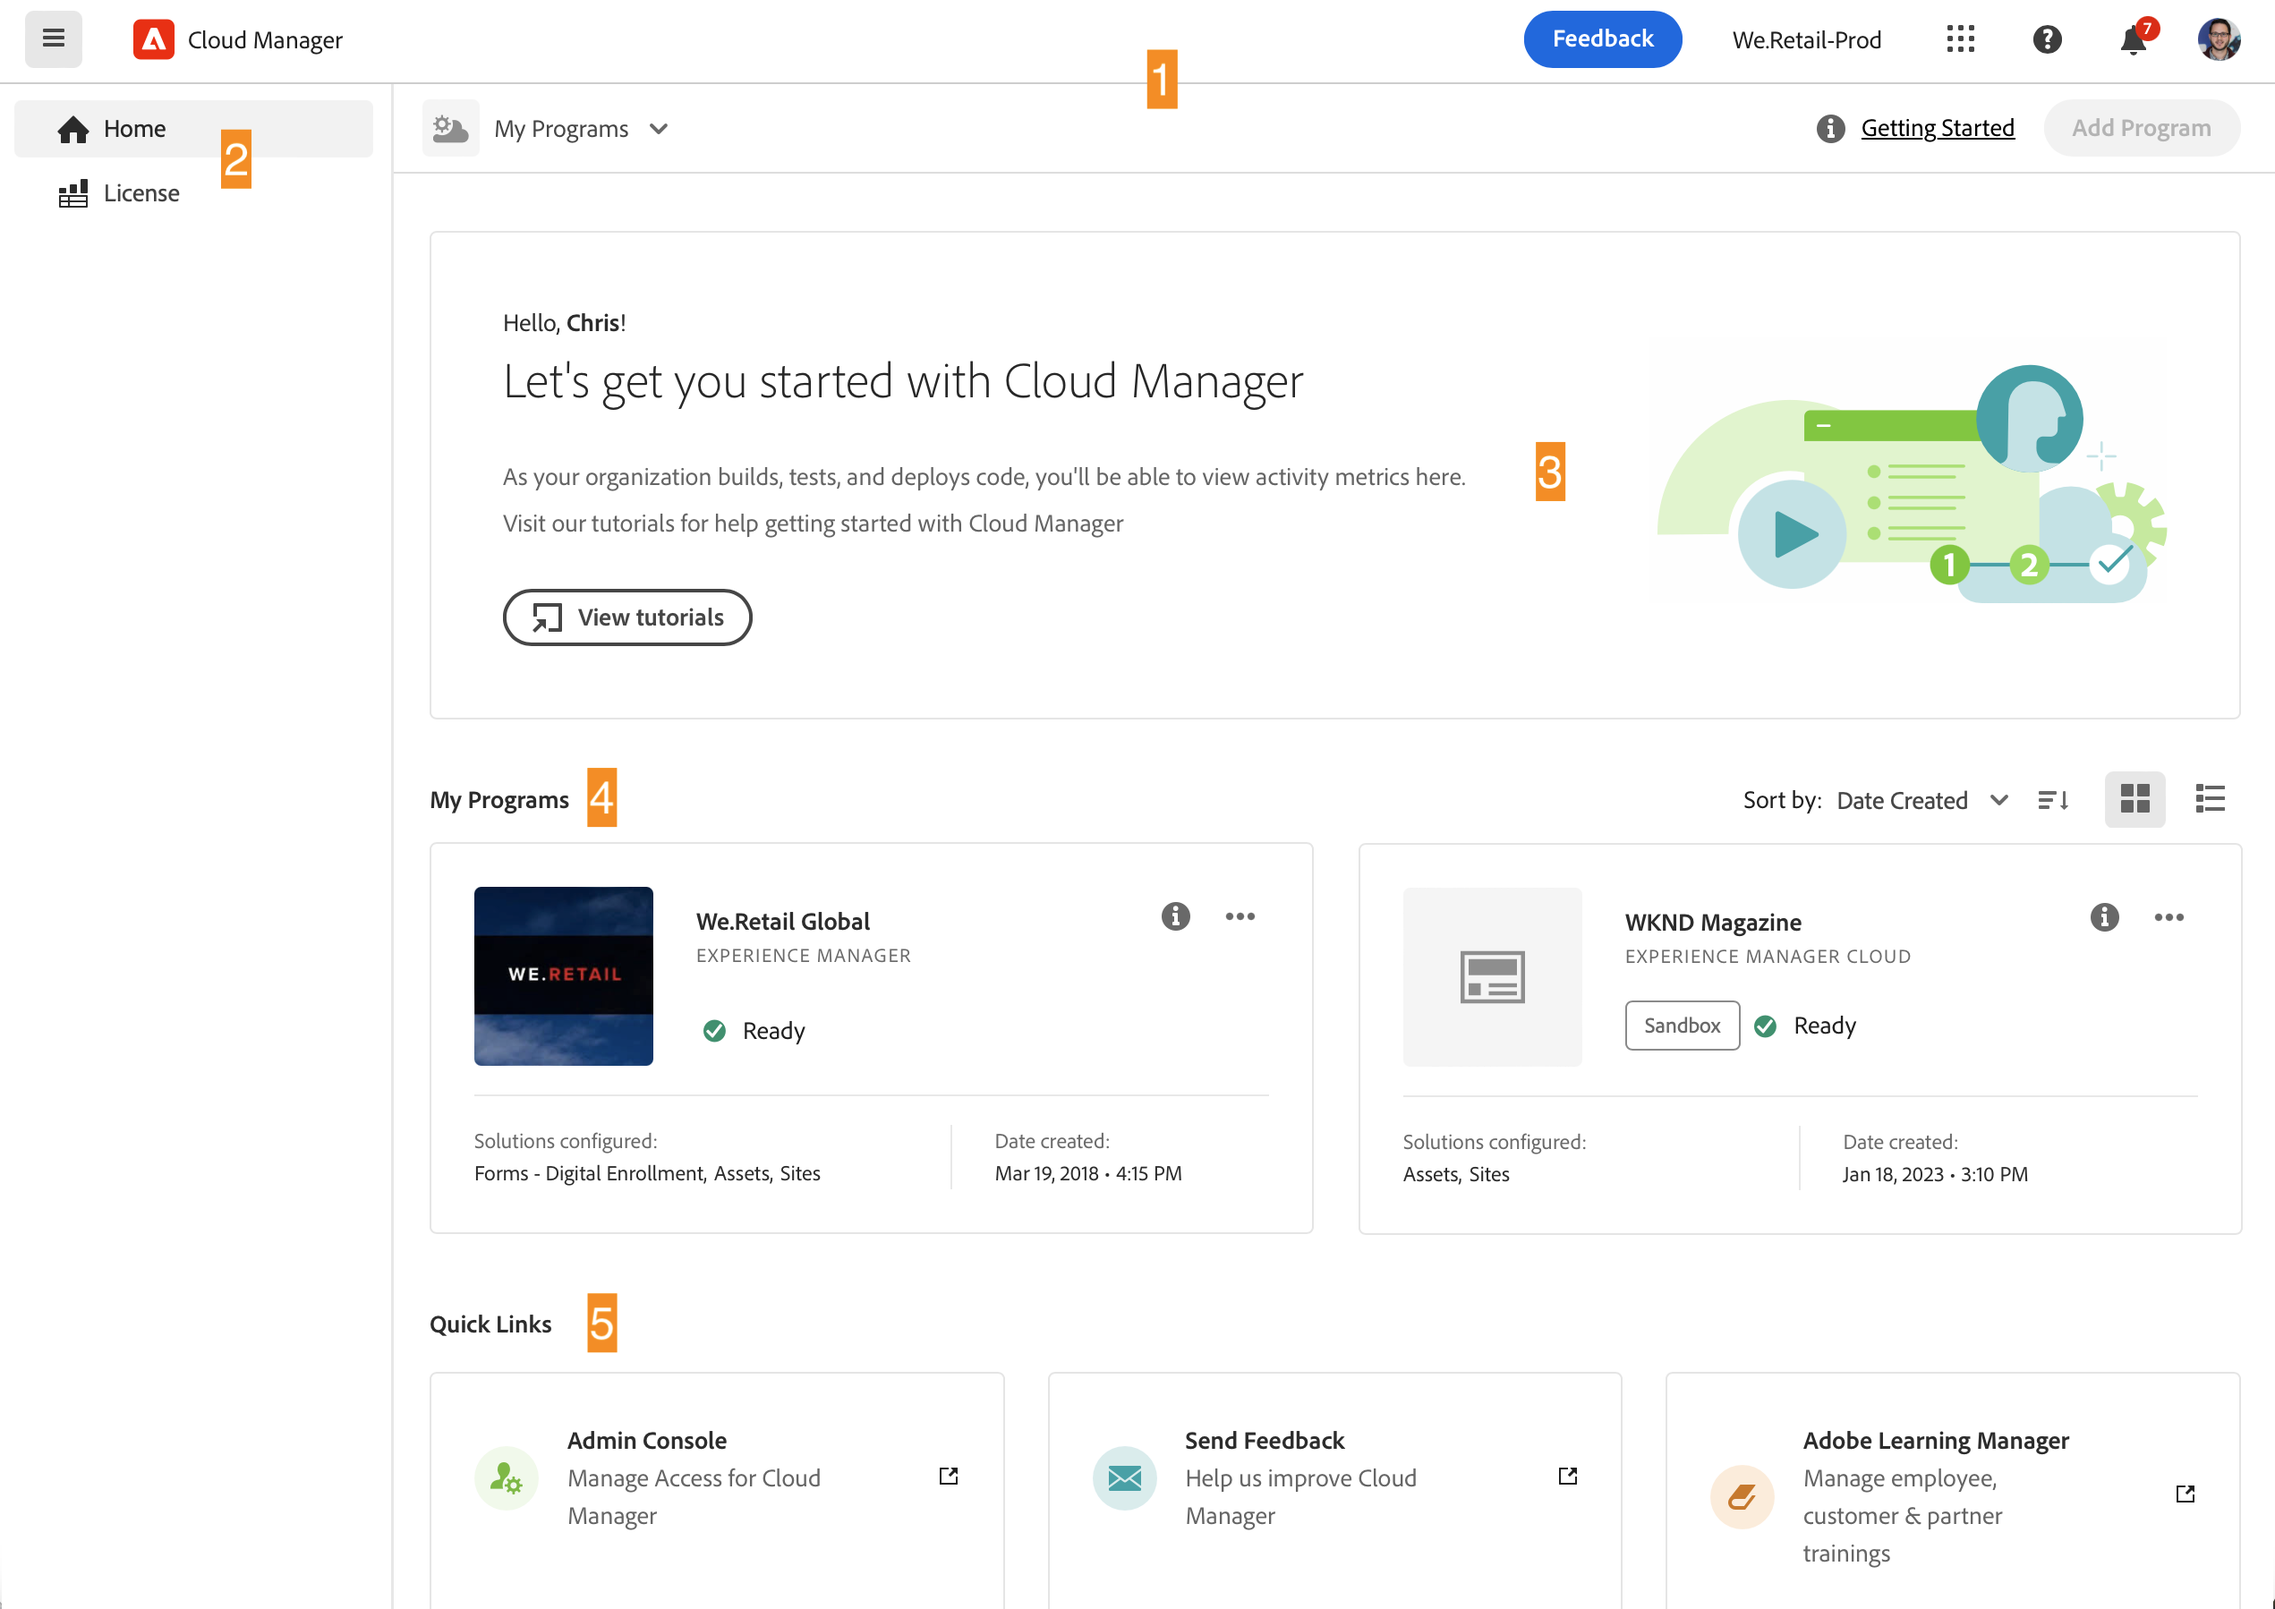
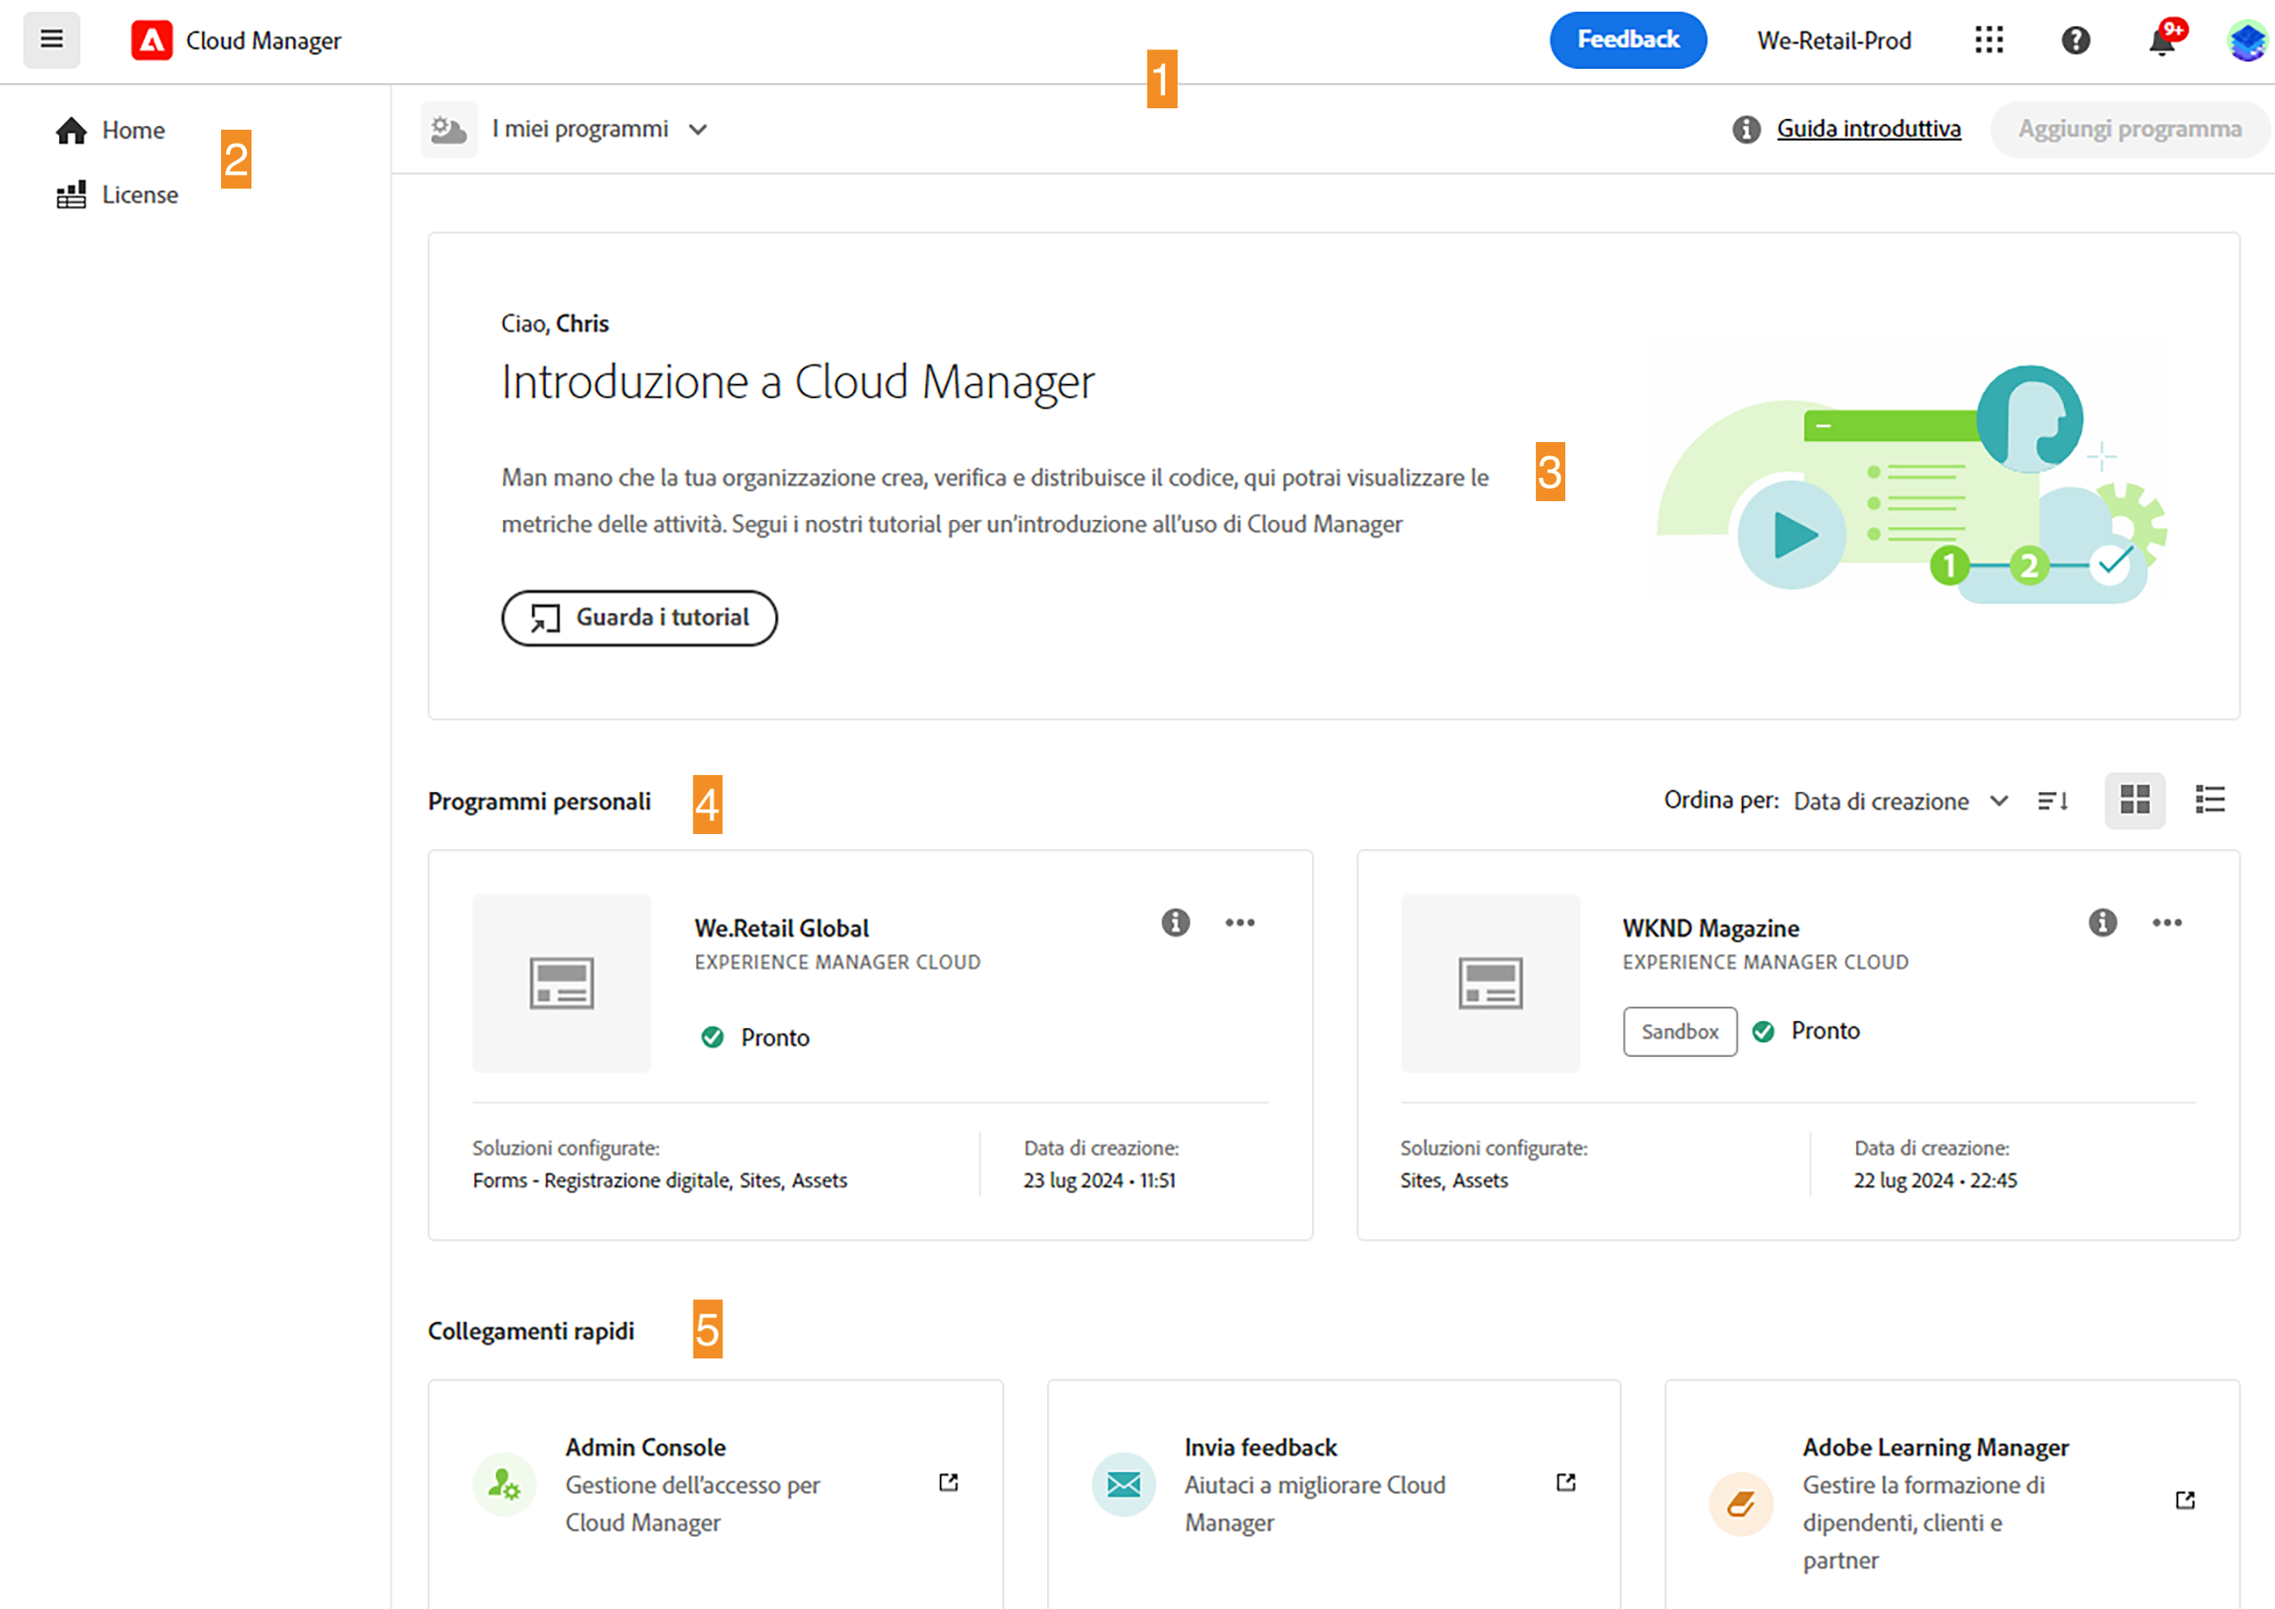
Updated by task 'AUTO_HANDOFF_1721897573765'  Changes for core/source commit https://git.corp.adobe.com/AdobeDocs/experience-manager-cloud-manager.en/commit/8f08c36aaedc05e1a9b75daf674b326cdaec6c25

diff --git a/help/getting-started/navigation.md b/help/getting-started/navigation.md
@@ -3,9 +3,9 @@ title: Navigazione nell’interfaccia utente di Cloud Manager
 description: Scopri come è organizzata l’interfaccia utente di Cloud Manager e come spostarsi per gestire i programmi e gli ambienti.
 exl-id: 9c1545ce-1c6d-417f-a6f4-fe53caef3433
 source-git-commit: d4d9a9f38c5a969f276140dca98731c670547a3d
-workflow-type: tm+mt
+workflow-type: ht
 source-wordcount: '1439'
-ht-degree: 80%
+ht-degree: 100%
 
 ---
 
@@ -29,12 +29,12 @@ La console Programmi personali fornisce una panoramica di tutti i programmi a cu
 
 1. [Barre degli strumenti](#toolbars-my-programs-toolbars) per la selezione di organizzazioni, avvisi e impostazioni account
 1. Schede che consentono di attivare/disattivare la visualizzazione corrente dei programmi.
-   * Visualizzazione **Home** (predefinita) che seleziona la visualizzazione **Programmi** con una panoramica di tutti i programmi
+   * Visualizzazione **Pagina principale** (predefinita) che seleziona la visualizzazione **Programmi personali** con una panoramica di tutti i programmi
    * **Licenza** che accede alla dashboard delle licenze. La dashboard delle licenze si applica solo ai programmi AEM as a Cloud Service, non ai programmi AMS.
       * Per determinare il tipo di servizio del programma (AMS o AEMaaCS), consulta la [sezione Schede del programma](#program-cards) di questo documento.
-   * Per impostazione predefinita, le schede sono chiuse e possono essere visualizzate utilizzando il menu hamburger nell&#39;intestazione [Cloud Manager.](#cloud-manager-header)
-1. [Inviti all&#39;azione e statistiche](#cta-statistics) per una panoramica dell&#39;attività recente
-1. [**Programmi** sezione](#my-programs-section) con una panoramica di tutti i programmi
+   * Per impostazione predefinita, le schede sono chiuse e possono essere visualizzate utilizzando il menu hamburger nell’[intestazione Cloud Manager.](#cloud-manager-header)
+1. [Statistiche e invito all’azione](#cta-statistics) per una panoramica dell’attività recente
+1. Sezione [**Programmi personali** ](#my-programs-section) con una panoramica di tutti i programmi
 1. [Collegamenti rapidi](#quick-links) per accedere facilmente alle risorse correlate
 
 >[!TIP]
@@ -51,7 +51,7 @@ La prima è l’intestazione di Cloud Manager, che è persistente quando ti spos
 
 ![Intestazione di Experience Cloud](assets/experience-cloud-header.png)
 
-1. Il menu hamburger che fornisce l&#39;accesso alle schede che possono portare a parti specifiche di un singolo programma o passare dalla dashboard delle licenze alla console **[Programmi personali](#my-programs-console)** a seconda del contesto.
+1. Menu hamburger che fornisce l’accesso alle schede che possono portare a parti specifiche di un singolo programma o passare dalla dashboard delle licenze alla console **[Programmi personali](#my-programs-console)** a seconda del contesto.
    * La dashboard delle licenze si applica solo ai programmi AEM as a Cloud Service, non ai programmi AMS.
    * Per determinare il tipo di servizio del programma (AMS o AEMaaCS), consulta la [sezione Schede del programma](#program-cards) di questo documento.
 1. Il pulsante Cloud Manager ti riporterà alla console Programmi personali di Cloud Manager, indipendentemente dalla tua posizione in Cloud Manager.
@@ -73,9 +73,9 @@ La barra degli strumenti del programma fornisce collegamenti per passare da prog
    * Tieni presente che il percorso di onboarding è progettato per AEM as a Cloud Service e non per Cloud Service per AMS, ma molti concetti sono gli stessi.
 1. Il pulsante di azione offre azioni appropriate al contesto, ad esempio la creazione di un nuovo programma.
 
-### Inviti all’azione e statistiche {#cta-statistics}
+### Invito all’azione e statistiche {#cta-statistics}
 
-La sezione invito all’azione e statistiche fornisce dati aggregati per l’organizzazione. Ad esempio, se i programmi sono stati configurati correttamente, è possibile che vengano visualizzate le statistiche delle attività degli ultimi 90 giorni, tra cui:
+La sezione Invito all’azione e statistiche fornisce dati aggregati per l’organizzazione. Ad esempio, se i programmi sono stati configurati correttamente, è possibile che vengano visualizzate le statistiche delle attività degli ultimi 90 giorni, tra cui:
 
 * Numero di [implementazioni](/help/using/code-deployment.md)
 * Numero di [problemi di qualità del codice](/help/using/code-quality-testing.md) identificati
@@ -103,7 +103,7 @@ Utilizza le opzioni di ordinamento per trovare meglio il programma necessario.
 * Vista griglia (predefinito)
 * Vista a elenco
 
-#### Schede programma {#program-cards}
+#### Schede del programma {#program-cards}
 
 Ogni programma è rappresentato da una scheda (o riga in una tabella) che fornisce una panoramica del programma e collegamenti rapidi per intervenire.
 
@@ -137,7 +137,7 @@ La sezione dei collegamenti rapidi consente di accedere alle risorse correlate d
 
 ## Finestra Panoramica del programma {#program-overview}
 
-Dopo aver selezionato un programma nella console [**I miei programmi**,](#my-programs-console) viene visualizzata la panoramica del programma.
+Dopo aver selezionato un programma nella console [**Programmi personali**,](#my-programs-console) viene visualizzata la panoramica del programma.
 
 ![Panoramica del programma](assets/program-overview.png)
 
